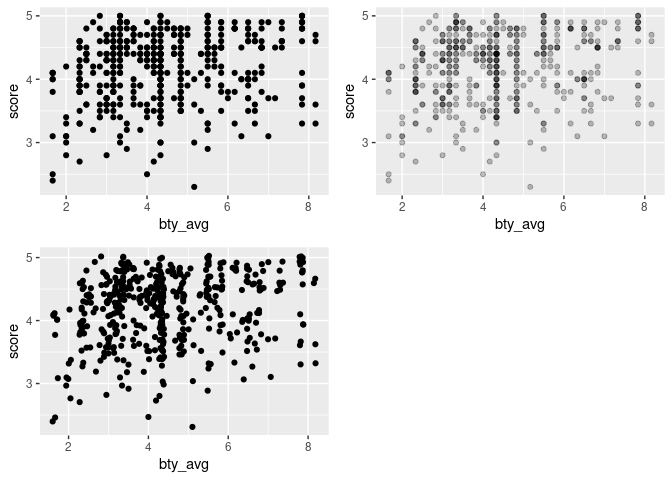
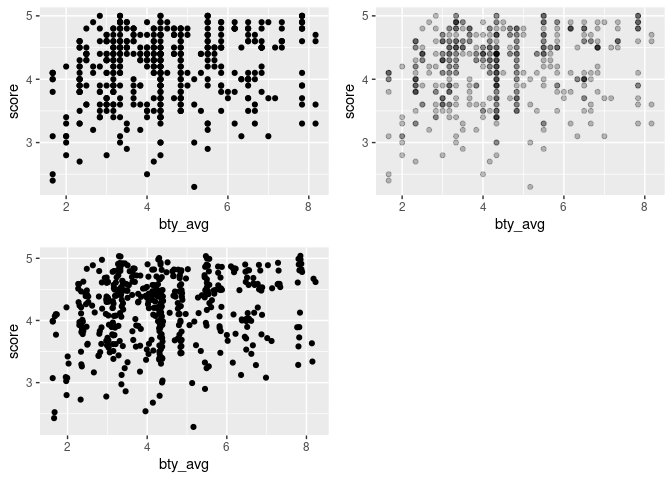
Completed Lab 10

diff --git a/Unit 2 - Exploring Data/Labs/Lab-10-Grading-the-professor_pt_1.md b/Unit 2 - Exploring Data/Labs/Lab-10-Grading-the-professor_pt_1.md
@@ -91,7 +91,39 @@ Data summary
 |:--------------|----------:|--------------:|-----:|-----:|----:|----:|----:|----:|-----:|:------|
 | score         |         0 |             1 | 4.17 | 0.54 | 2.3 | 3.8 | 4.3 | 4.6 |    5 | ▁▁▅▇▇ |
 
+``` r
+evals %>%
+  select(bty_avg) %>%
+  skim()
+```
+
+|                                                  |            |
+|:-------------------------------------------------|:-----------|
+| Name                                             | Piped data |
+| Number of rows                                   | 463        |
+| Number of columns                                | 1          |
+| \_\_\_\_\_\_\_\_\_\_\_\_\_\_\_\_\_\_\_\_\_\_\_   |            |
+| Column type frequency:                           |            |
+| numeric                                          | 1          |
+| \_\_\_\_\_\_\_\_\_\_\_\_\_\_\_\_\_\_\_\_\_\_\_\_ |            |
+| Group variables                                  | None       |
+
+Data summary
+
+**Variable type: numeric**
+
+| skim_variable | n_missing | complete_rate | mean |   sd |   p0 |  p25 |  p50 | p75 | p100 | hist  |
+|:--------------|----------:|--------------:|-----:|-----:|-----:|-----:|-----:|----:|-----:|:------|
+| bty_avg       |         0 |             1 | 4.42 | 1.53 | 1.67 | 3.17 | 4.33 | 5.5 | 8.17 | ▃▇▇▃▂ |
+
 ### Exercises 2 and 3
+
+Geom_Jitter prevents overplotting by moving dots that overlap a random
+amount left and right. Given that score is descrete and there are 463
+observations, some of those observations overlap, which means when
+looking at the visualization, you are not seeing all of the data. I
+plotted a geom_point with an alpha of 0.25 to also uncover the
+overlapping.
 
 ``` r
 score_point <- evals %>%
@@ -111,4 +143,74 @@ grid.arrange(score_point, score_point_alpha, score_jitter, nrow = 2, ncol = 2)
 
 ![](Lab-10-Grading-the-professor_pt_1_files/figure-gfm/score%20vs%20bty%20avg-1.png)<!-- -->
 
-Add exercise headings as needed.
+### Exercise 4
+
+Let’s see if the apparent trend in the plot is something more than
+natural variation. Fit a linear model called score_bty_fit to predict
+average professor evaluation score by average beauty rating (bty_avg).
+Based on the regression output, write the linear model.
+
+score = 3.88 + 0.06664 x bty_avg
+
+``` r
+score_bty_fit <- linear_reg() %>%
+  set_engine("lm") %>%
+  fit(score ~ bty_avg, data = evals) %>%
+  tidy()
+
+score_bty_fit
+```
+
+    ## # A tibble: 2 × 5
+    ##   term        estimate std.error statistic   p.value
+    ##   <chr>          <dbl>     <dbl>     <dbl>     <dbl>
+    ## 1 (Intercept)   3.88      0.0761     51.0  1.56e-191
+    ## 2 bty_avg       0.0666    0.0163      4.09 5.08e-  5
+
+### Exercise 5
+
+Recreate the scatterplot from Exercise 2, and add the regression line to
+this plot in orange colour, with shading for the uncertainty of the line
+turned off.
+
+``` r
+score_jitter <- evals %>%
+                  ggplot(aes(y = score, x = bty_avg)) +
+                  geom_jitter() +
+                  geom_smooth(method = lm, se = FALSE)
+score_jitter
+```
+
+    ## `geom_smooth()` using formula 'y ~ x'
+
+![](Lab-10-Grading-the-professor_pt_1_files/figure-gfm/plot%20with%20line-1.png)<!-- -->
+
+### Exercises 6-7
+
+Based on this model, we can expect that a professors average evaluation
+score will rise on average by 0.066 points for each additional point
+increase in their average beauty rating.
+
+The y-intercept would mean that a teacheer will earn an average
+evaluation score of 3.88 if they have a 0 beauty rating. The lowest
+beauty score in this dataset is a 1.67 and, in general, it’s hard to
+imagine a professor getting a beauty rating of 0, which makes the
+y-intercept meaningless in this case.
+
+### Exercise 8
+
+3.5% of the variation in a professors average evaluation score can be
+explained by their average beauty rating.
+
+``` r
+evals %>%
+  summarise(
+    r = cor(score, bty_avg), 
+    r_squared = (cor(score, bty_avg))^2
+  )
+```
+
+    ## # A tibble: 1 × 2
+    ##       r r_squared
+    ##   <dbl>     <dbl>
+    ## 1 0.187    0.0350
